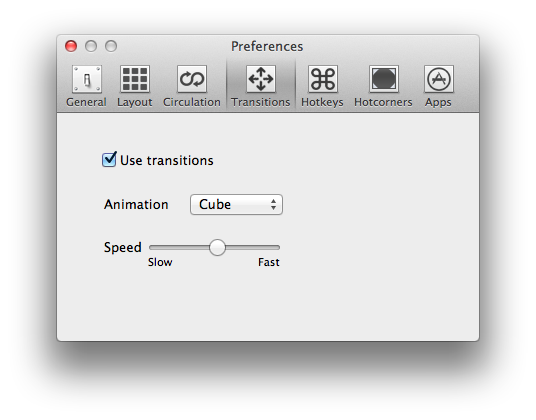
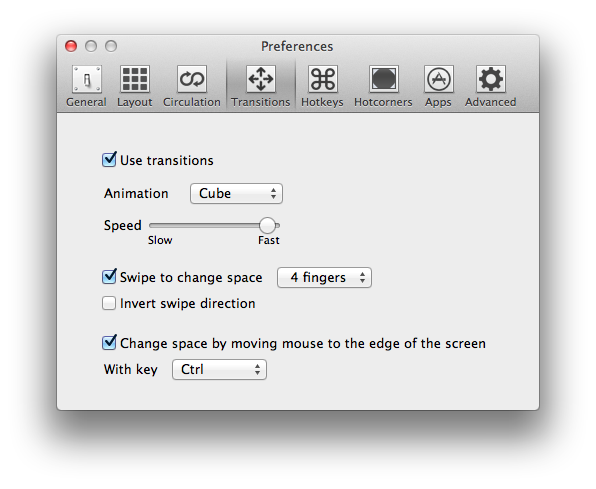
Documentation changes for 0.11.0

Changed region(s): [[0.0896, 0.0619, 0.9254, 0.8667], [0.1493, 0.3095, 0.4776, 0.5262], [0.1493, 0.4643, 0.6269, 0.65]]

diff --git a/changelog.html b/changelog.html
@@ -47,6 +47,55 @@
     </head>
     <body>
       <div id="page" class="changelog" style="padding: 5px 12px">
+
+        <div class="release">
+   				<div class="titlebox">
+   					<h4>
+   						<a href="http://downloads.binaryage.com/TotalSpaces-0.11.0.zip">0.11.0</a>
+   					</h4>
+   					<h5>
+   						17 August 2012
+   					</h5>
+   				</div>
+   				<div class="infobox">
+   					<ul class="changes">
+   					  <li>
+   							<span class="sticker new"><b>NEW</b></span> <span class="info">Select which kind of background images to use in the overview grid - hi res images, blurred, or no images. The latter two settings are faster.</span>
+   						</li>
+   						<li>
+   							<span class="sticker improved"><b>IMPROVED</b></span> <span class="info">Quicker alt-tabbing: the delay TotalSpaces imposed between activations of alt-tab is no longer needed</span>
+   						</li>
+   						<li>
+   							<span class="sticker improved"><b>IMPROVED</b></span> <span class="info">Hotkeys now trigger action on key down rather than key up for faster action</span>
+   						</li>
+   						<li>
+   							<span class="sticker new"><b>NEW</b></span> <span class="info">Option to trigger space changes by moving the mouse to the edge of the screen, with or without modifier keys (experimental)</span>
+   						</li>
+   						<li>
+   							<span class="sticker new"><b>NEW</b></span> <span class="info">Overview grid can be triggered by a separate app (in the same way Mission Control can be). <a href="http://downloads.binaryage.com/TotalSpacesGrid.app.zip">App is a separate download</a>.</span>
+   						</li>
+   						<li>
+   							<span class="sticker improved"><b>IMPROVED</b></span> <span class="info">The transition speed slider now allows a maximum setting 10% faster than previously</span>
+   						</li>
+   						<li>
+   							<span class="sticker fixed"><b>FIXED</b></span> <span class="info">Exited full screen apps no longer show in the overview grid</span>
+   						</li>
+   						<li>
+   							<span class="sticker fixed"><b>FIXED</b></span> <span class="info">Mouse will no longer get out of sync with window position when dragging windows in the overview grid</span>
+   						</li>
+   						<li>
+   							<span class="sticker fixed"><b>FIXED</b></span> <span class="info">Concurrency related crash when swiping</span>
+   						</li>
+   						<li>
+   							<span class="sticker fixed"><b>FIXED</b></span> <span class="info">Trackpad related crash that could occur on wake</span>
+   						</li>
+   						<li>
+   							<span class="sticker fixed"><b>FIXED</b></span> <span class="info">Sometimes the hotkey for the overview grid would be forgotten when TotalSpaces restarts</span>
+   						</li>
+            </ul>
+   				</div>
+   			</div>
+
         
         <div class="release">
    				<div class="titlebox">
@@ -71,6 +120,7 @@
    						<li>
    							<span class="sticker fixed"><b>FIXED</b></span> <span class="info">Dock component crash in Mountain Lion that caused blank overview grid</span>
    						</li>
+   					</ul>
    				</div>
    			</div>
         

diff --git a/swipe.md b/swipe.md
@@ -4,9 +4,9 @@ title: TotalSpaces Swipe navigation
 subtitle: Swipe to navigate
 ---
 
-You can select in the general preferences pane to enable finger swiping on your trackpad to change desktops.
+Use the transitions preferences pane to enable finger swiping gestures on your trackpad to change desktops.
 
-<img src="/images/general-preferences.png">
+<img src="/images/transitions-preferences.png">
 
 After you have turned this on, you can use the trackpad to move between the desktops in your grid.
 
@@ -21,3 +21,5 @@ It's important to note that the system also uses three and four finger gestures,
 In most cases everything should work as expected (and TotalSpaces will override the system settings if they are set to use the same number of fingers), but if you use three finger swiping you must disable "Three finger drag" in trackpad preferences.
 
 <img src="/images/trackpad-preferences.png">
+
+Note also that if you have chosen only one row of spaces in your layout, then you can still use 3 or 4 finger vertical swipes for Mission Control / Exposé.

diff --git a/mouse-edges.md b/mouse-edges.md
@@ -1,0 +1,15 @@
+---
+layout: ts-doc
+title: TotalSpaces Mouse navigation
+subtitle: Mouse to edge to navigate
+---
+
+Use the transitions preferences pane to enable changing spaces by moving your mouse to the edge of the screen.
+
+<img src="/images/transitions-preferences.png">
+
+If you choose to use this feature without any modifier key selected, the system will activate the desktop change after your mouse cursor has been at the edge of the screen for about 1 second.
+
+If you select one of the modifier keys (shift, ctrl, alt or cmd), then you must hold this key down and move the mouse to the edge of the screen in the direction you want to go for the space change the happen.
+In this case the system will activate faster as there is less chance that space changes will be activated by accident.
+

diff --git a/overview-backgrounds.md b/overview-backgrounds.md
@@ -1,0 +1,16 @@
+---
+layout: ts-doc
+title: TotalSpaces Overview Grid Backgrounds
+subtitle: Overview Grid Backgrounds
+---
+TotalSpaces allows you to configure the kind of backgrounds that are shown in the [overview grid](/overview). Find the setting in general preferences.
+
+<img src="/images/background-preferences.png">
+
+If you choose to use hi resolution images the backgrounds will look sharper, but it may take a little longer to bring up the grid if you have more than one monitor.
+
+In those situations it is recommended to choose either the Blurred or None setting.
+
+Also, you may find it easier to see your windows with one of these two settings.
+
+<img src="/images/background-settings-example.png">

diff --git a/faq.md b/faq.md
@@ -50,10 +50,10 @@ then restart TotalSpaces.
 
 Use this command at the command line:
 
-defaults write com.binaryage.TotalSpaces transitionSpeed 110 
+defaults write com.binaryage.TotalSpaces transitionSpeed 115
 
 then restart TotalSpaces. 
 
-The normal preferences slider goes to 100, but 130 is the hard limit, do not set it higher - anyway you won't even see the transitions at that speed. 
+The normal preferences slider goes to 110, but 130 is the hard limit; do not set it higher - anyway you won't even see the transitions at that speed. 
 
 Note that there is a small built in delay after you press the hotkey that is unavoidable with transitions - they take a little time to set up.

diff --git a/transitions.md b/transitions.md
@@ -15,3 +15,5 @@ If you like the transitions (and I do), I recommend you use Slide or Cube transi
 The transitions will reinforce the impression that your desktops are in a grid, and help you to remember where each application is.
 
 Also see the [FAQ](/faq) where there is some additional information about transition animations.
+
+The transitions preferences pane is also where you configure [swiping gestures](/swipe) and [using the mouse](/mouse-edges) to trigger space changes.

diff --git a/index.md b/index.md
@@ -4,8 +4,8 @@ title: TotalSpaces app brings back grid Spaces to OS X Lion and more!
 product_title: TotalSpaces
 product_subtitle: brings back grid Spaces to OS X Lion and more!
 subtitle: brings back grid Spaces to OS X Lion and more!
-download: http://downloads.binaryage.com/TotalSpaces-0.10.8.zip
-downloadtitle: Download v0.10.8
+download: http://downloads.binaryage.com/TotalSpaces-0.11.0.zip
+downloadtitle: Download v0.11.0
 facebook: 1
 retweet: 1
 buzz: 1

diff --git a/overview-grid-app.md b/overview-grid-app.md
@@ -1,0 +1,13 @@
+---
+layout: ts-doc
+title: TotalSpaces Overview Grid App
+subtitle: Overview Grid App
+---
+
+TotalSpaces has an additional app that you can run to activate the [overview grid](/overview).
+
+This might be useful if you prefer to activate the grid from you Dock, or an icon on your desktop.
+
+<img src="/images/totalspaces-grid-app.png">
+
+You can download the app [here](http://downloads.binaryage.com/TotalSpacesGrid.app.zip).
